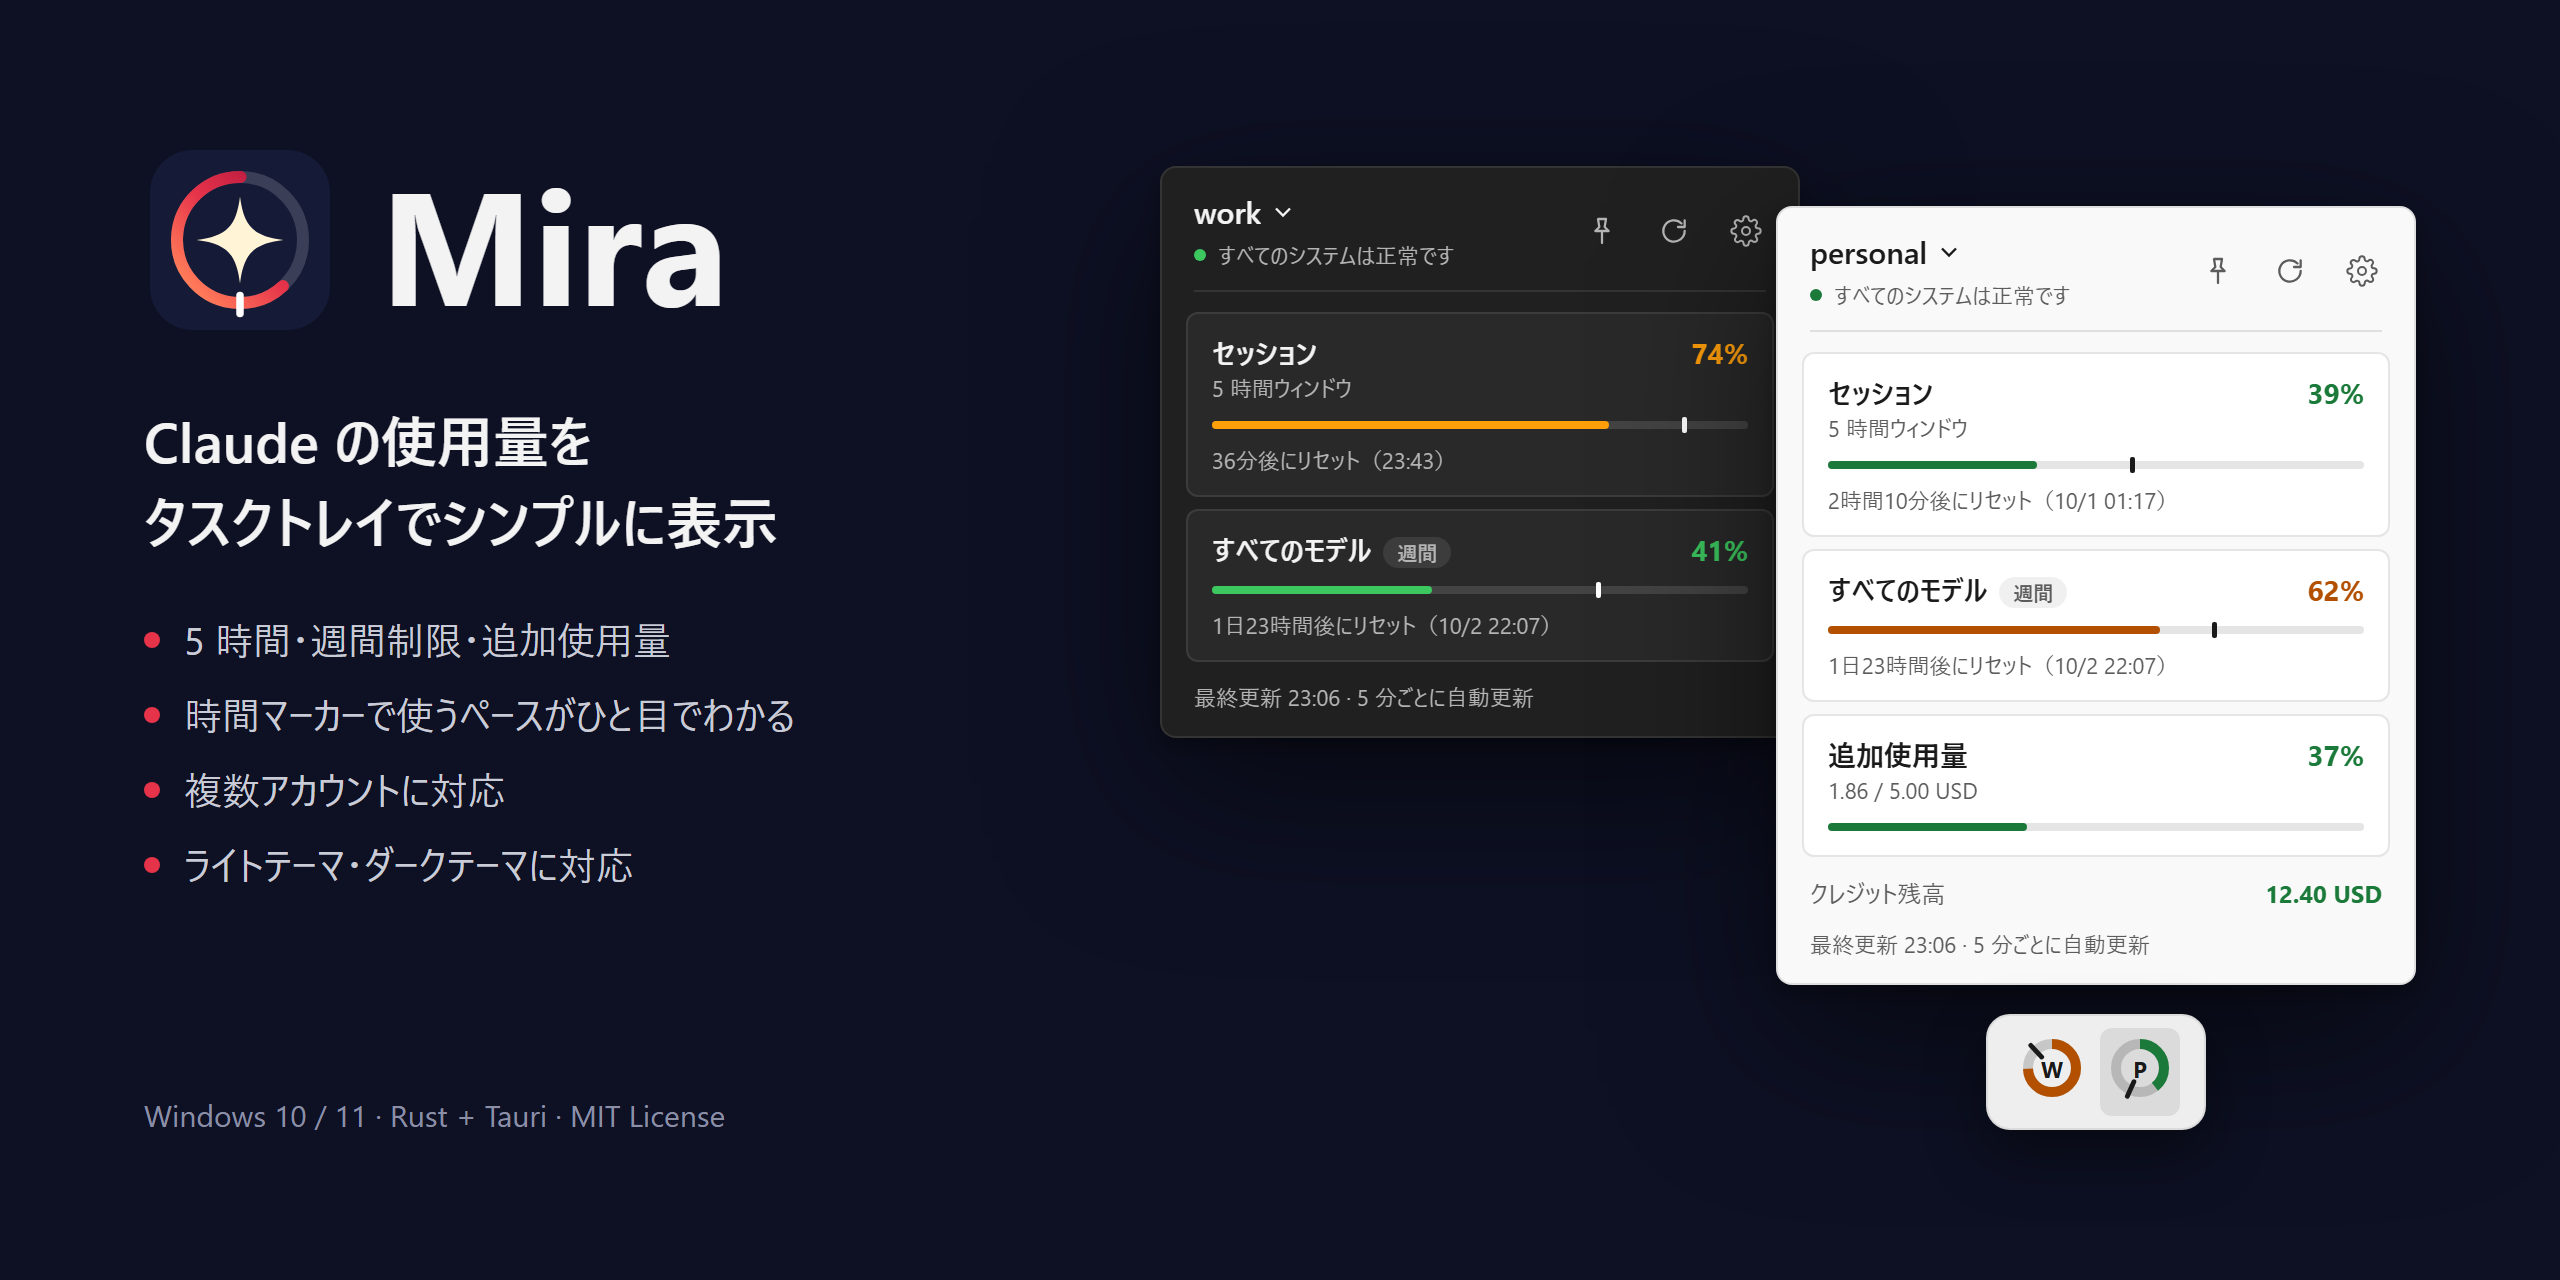
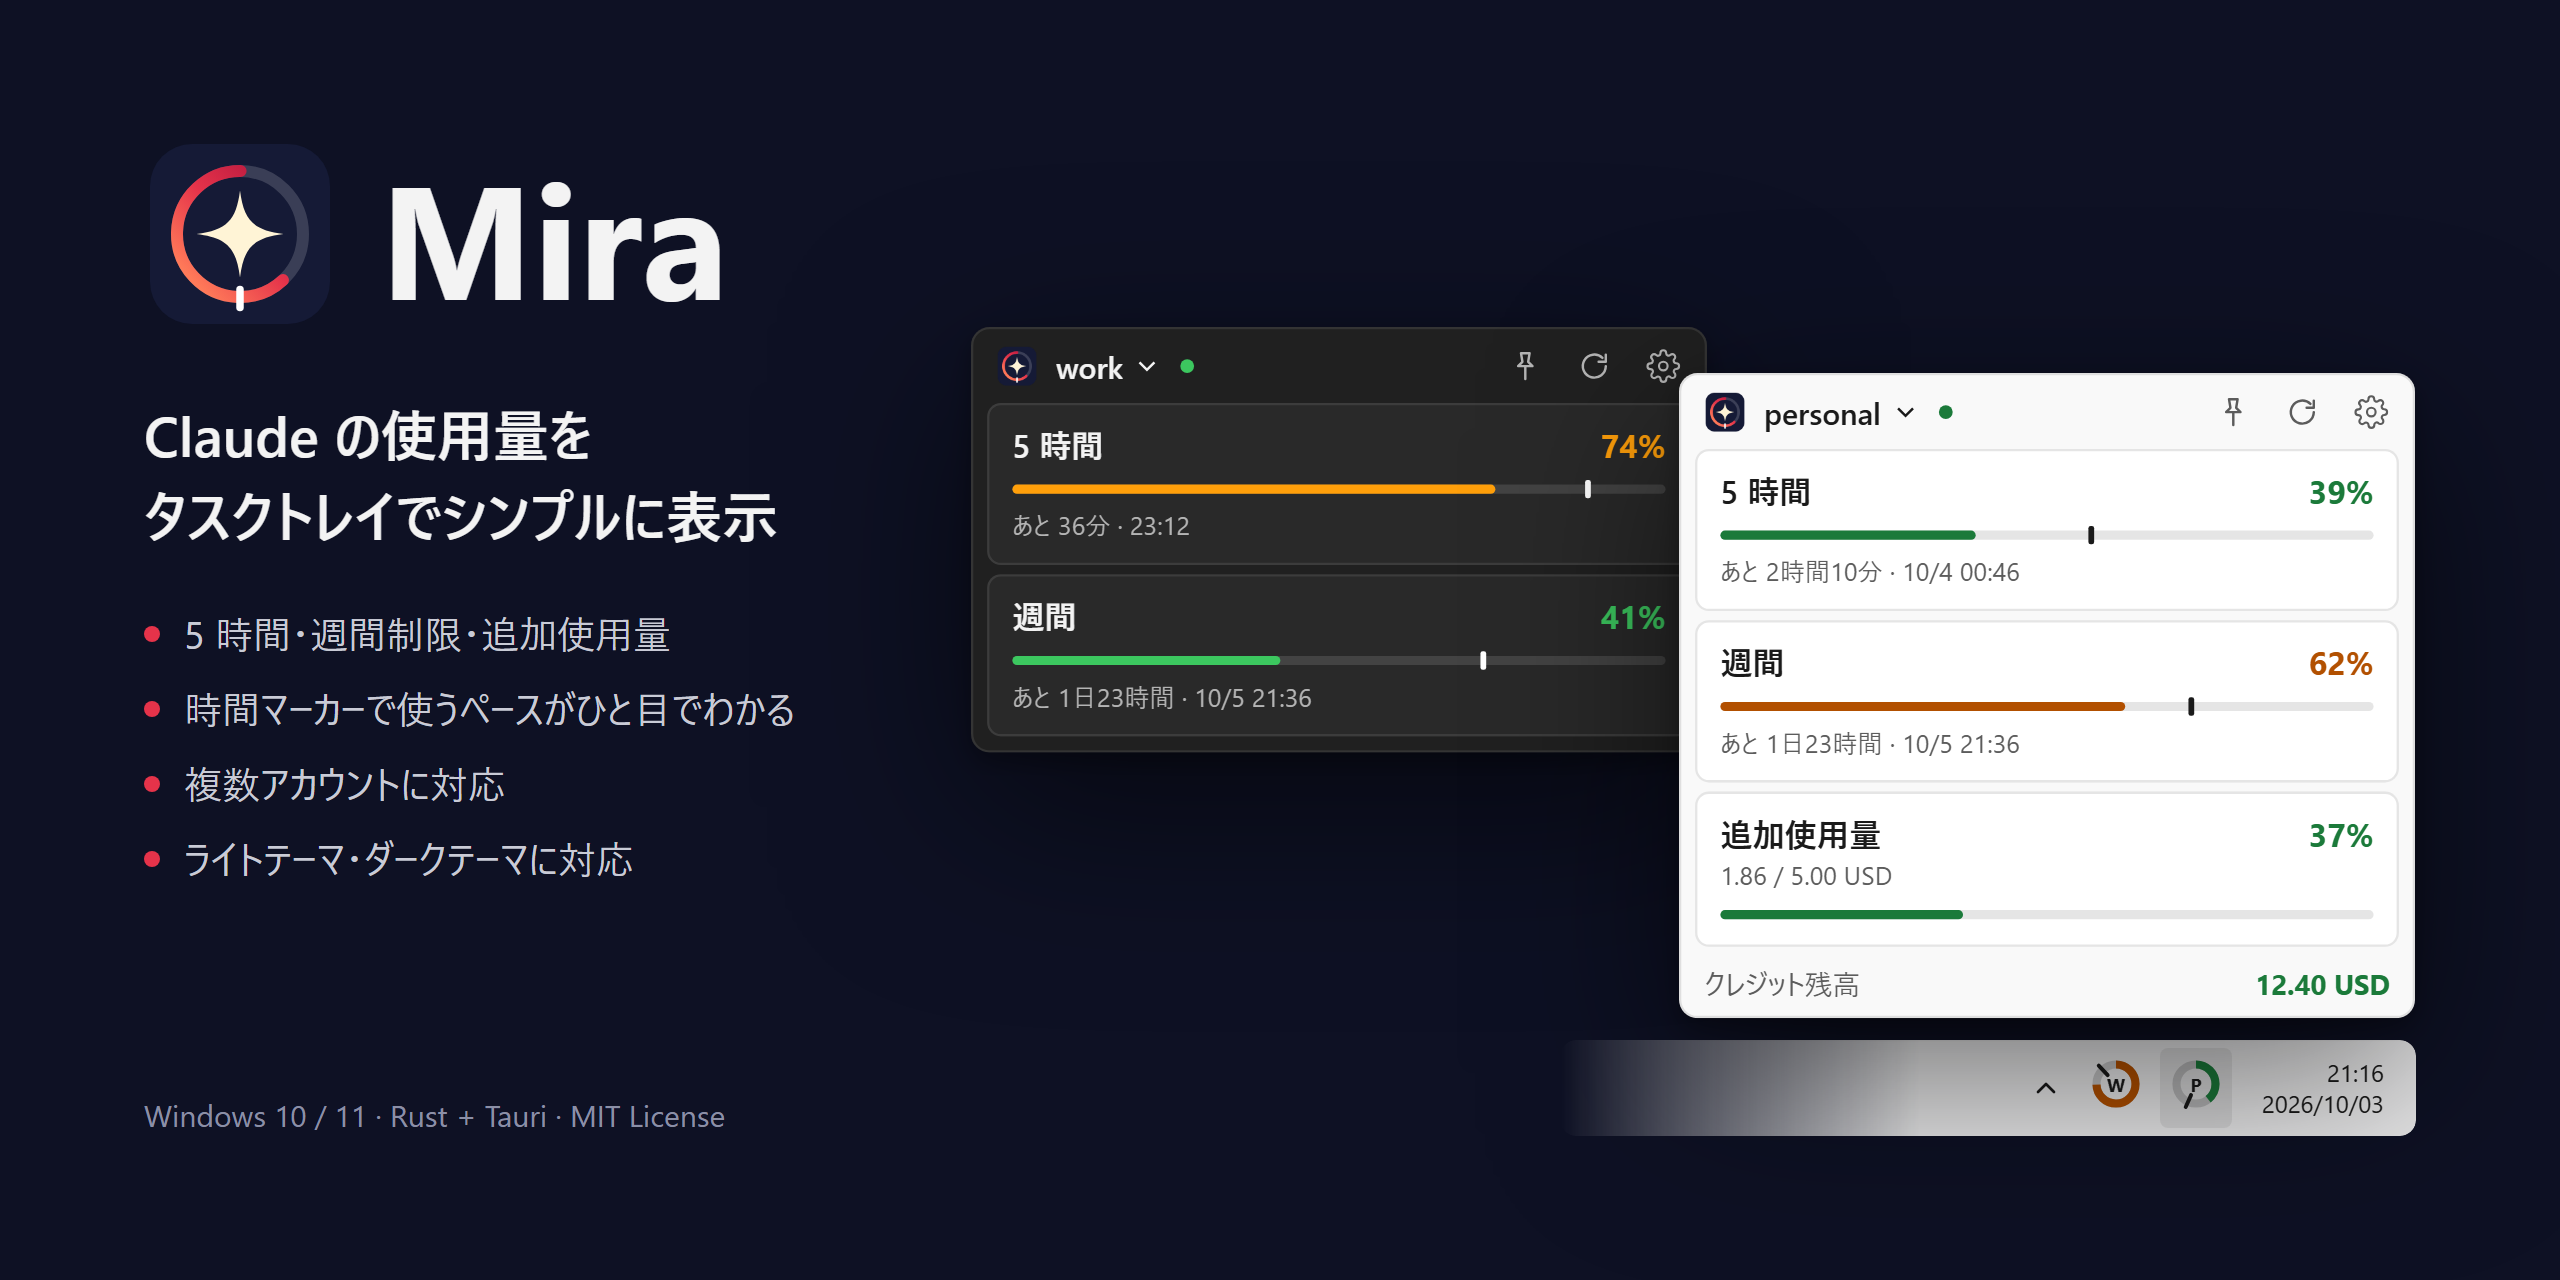
README の画像を新しいポップアップの表示で作り直す
ポップアップのデザインを変えたので、画像も合わせて描き直す。

- 奥にダーク、手前にライトのポップアップを少しずらして重ねる
- トレイの箱の代わりに、タスクバーの右端だけを描く。アイコンと時計は右端に寄せて並べる
- 手前のポップアップは、右端で止まった位置に置く（アプリも作業領域の端で止める）
- 余白を上下・左右とも 72px にそろえる

diff --git a/docs/images/src/hero.html b/docs/images/src/hero.html
@@ -29,7 +29,8 @@ body {
 .copy {
   position: absolute;
   left: 72px;
-  top: 72px;
+  /* アイコンの角丸の四角は画像の 3px 内側にあるので、その上端が 72px に来るようにする */
+  top: 69px;
   width: 520px;
 }
 
@@ -98,54 +99,78 @@ li::before {
   background: transparent;
 }
 
-/* トレイアイコン。アプリが描く形（リング、時間マーカー、頭文字）と同じ */
+/* 余白は上下・左右とも 72px。右側のまとまりも右端と下端を 72px 内側にそろえる */
+
+/* タスクバーの右端だけを描く。左は背景に溶かす。アイコンはアプリが描く形（リング、時間マーカー、頭文字）と同じ */
+.taskbar {
+  position: absolute;
+  left: 780px;
+  right: 72px;
+  bottom: 72px;
+  height: 48px;
+  border-radius: 8px;
+  background: rgba(243, 243, 243, 0.96);
+  -webkit-mask-image: linear-gradient(to right, transparent 0, #000 180px);
+  mask-image: linear-gradient(to right, transparent 0, #000 180px);
+}
+
+/* アイコンと時計を右端に寄せて並べる。手前のポップアップは画面の右端で止まった位置（アプリも作業領域の端で止める） */
 .tray {
   position: absolute;
-  /* 手前のライトのポップアップ（左 878px、幅 340px）の中心にそろえる */
-  left: 1048px;
-  top: 507px;
-  transform: translateX(-50%);
-  z-index: 2;
+  right: 16px;
+  top: 0;
+  bottom: 0;
   display: flex;
   align-items: center;
-  gap: 12px;
-  padding: 10px 16px;
-  border-radius: 12px;
-  background: #eeeeee;
-  border: 1px solid rgba(0, 0, 0, 0.08);
-  box-shadow: 0 12px 30px rgba(0, 0, 0, 0.45);
+  gap: 14px;
 }
 
 .tray svg {
-  width: 32px;
-  height: 32px;
+  width: 26px;
+  height: 26px;
+}
+
+.tray .chevron {
+  width: 16px;
+  height: 16px;
 }
 
 .tray .active {
-  padding: 4px;
-  margin: -4px;
-  border-radius: 6px;
-  background: rgba(0, 0, 0, 0.08);
+  padding: 5px;
+  margin: -5px;
+  border-radius: 4px;
+  background: rgba(0, 0, 0, 0.07);
+}
+
+.clock {
+  margin-left: 6px;
+  font-size: 12px;
+  line-height: 1.3;
+  text-align: right;
+  color: #1a1a1a;
+  font-variant-numeric: tabular-nums;
 }
 
 .popover-frame {
   width: 340px;
   height: 580px;
+  transform: scale(1.15);
+  transform-origin: top left;
   filter: drop-shadow(0 24px 40px rgba(0, 0, 0, 0.55));
 }
 
-/* 右の手前にライト、左の奥にダークを少し重ねて置く */
+/* 手前のライトはトレイの P から開いた位置で、右端は 72px の余白にそろえる。奥のダークは左上に少しずらして重ねる */
 .popover-frame.light {
   /* 中のページと同じ配色にしないと、ブラウザが iframe に不透明な背景を描く */
   color-scheme: light;
   z-index: 2;
-  left: 878px;
-  top: 93px;
+  left: 828px;
+  top: 175px;
 }
 
 .popover-frame.dark {
-  left: 570px;
-  top: 73px;
+  left: 474px;
+  top: 152px;
 }
 </style>
 </head>
@@ -165,11 +190,15 @@ li::before {
     </ul>
   </div>
   <div class="meta">Windows 10 / 11 · Rust + Tauri · MIT License</div>
-  <iframe class="window popover-frame light" src="build/popover.html?theme=light&amp;profile=personal" title="ポップアップ（ライト）"></iframe>
-  <div class="tray" aria-label="トレイアイコン">
-    <span><svg width="32" height="32" viewBox="0 0 32 32" aria-hidden="true"><circle cx="16" cy="16" r="12" fill="none" stroke="rgba(0,0,0,0.16)" stroke-width="5"/><circle cx="16" cy="16" r="12" fill="none" stroke="#b25000" stroke-width="5" stroke-dasharray="55.79 75.40" transform="rotate(-90 16 16)"/><line x1="10.87" y1="10.53" x2="5.39" y2="4.70" stroke="#1a1a1a" stroke-width="2.4" stroke-linecap="round"/><text x="16" y="16.5" text-anchor="middle" dominant-baseline="central" font-size="11" font-weight="700" font-family="Segoe UI, sans-serif" fill="#1a1a1a">W</text></svg></span>
-    <span class="active"><svg width="32" height="32" viewBox="0 0 32 32" aria-hidden="true"><circle cx="16" cy="16" r="12" fill="none" stroke="rgba(0,0,0,0.16)" stroke-width="5"/><circle cx="16" cy="16" r="12" fill="none" stroke="#1b7a3a" stroke-width="5" stroke-dasharray="29.41 75.40" transform="rotate(-90 16 16)"/><line x1="12.94" y1="22.85" x2="9.67" y2="30.15" stroke="#1a1a1a" stroke-width="2.4" stroke-linecap="round"/><text x="16" y="16.5" text-anchor="middle" dominant-baseline="central" font-size="11" font-weight="700" font-family="Segoe UI, sans-serif" fill="#1a1a1a">P</text></svg></span>
+  <div class="taskbar" aria-label="タスクバー">
+    <div class="tray">
+      <svg class="chevron" viewBox="0 0 24 24" aria-hidden="true"><path d="M6 15l6-6 6 6" fill="none" stroke="#1a1a1a" stroke-width="2" stroke-linecap="round" stroke-linejoin="round"/></svg>
+      <span><svg width="32" height="32" viewBox="0 0 32 32" aria-hidden="true"><circle cx="16" cy="16" r="12" fill="none" stroke="rgba(0,0,0,0.16)" stroke-width="5"/><circle cx="16" cy="16" r="12" fill="none" stroke="#b25000" stroke-width="5" stroke-dasharray="55.79 75.40" transform="rotate(-90 16 16)"/><line x1="10.87" y1="10.53" x2="5.39" y2="4.70" stroke="#1a1a1a" stroke-width="2.4" stroke-linecap="round"/><text x="16" y="16.5" text-anchor="middle" dominant-baseline="central" font-size="11" font-weight="700" font-family="Segoe UI, sans-serif" fill="#1a1a1a">W</text></svg></span>
+      <span class="active"><svg width="32" height="32" viewBox="0 0 32 32" aria-hidden="true"><circle cx="16" cy="16" r="12" fill="none" stroke="rgba(0,0,0,0.16)" stroke-width="5"/><circle cx="16" cy="16" r="12" fill="none" stroke="#1b7a3a" stroke-width="5" stroke-dasharray="29.41 75.40" transform="rotate(-90 16 16)"/><line x1="12.94" y1="22.85" x2="9.67" y2="30.15" stroke="#1a1a1a" stroke-width="2.4" stroke-linecap="round"/><text x="16" y="16.5" text-anchor="middle" dominant-baseline="central" font-size="11" font-weight="700" font-family="Segoe UI, sans-serif" fill="#1a1a1a">P</text></svg></span>
+      <span class="clock">21:16<br>2026/10/03</span>
+    </div>
   </div>
+  <iframe class="window popover-frame light" src="build/popover.html?theme=light&amp;profile=personal" title="ポップアップ（ライト）"></iframe>
   <iframe class="window popover-frame dark" src="build/popover.html?profile=work" title="ポップアップ（ダーク）"></iframe>
 </div>
 </body>
